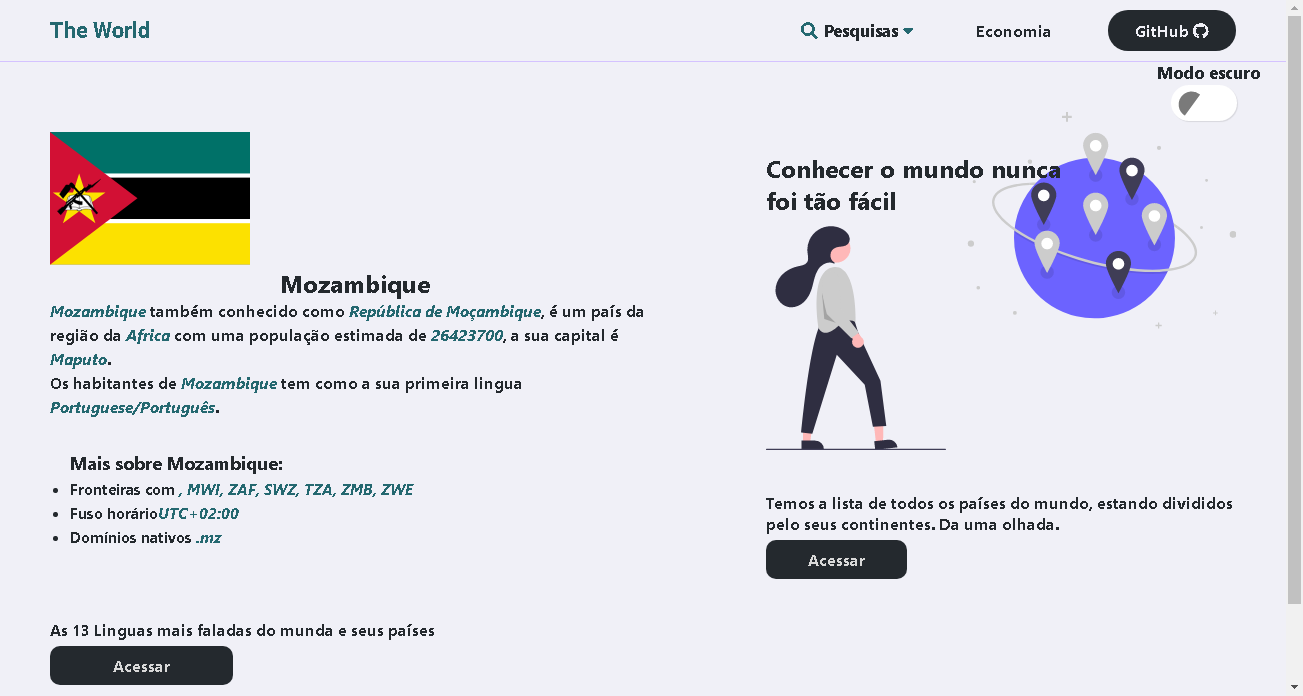
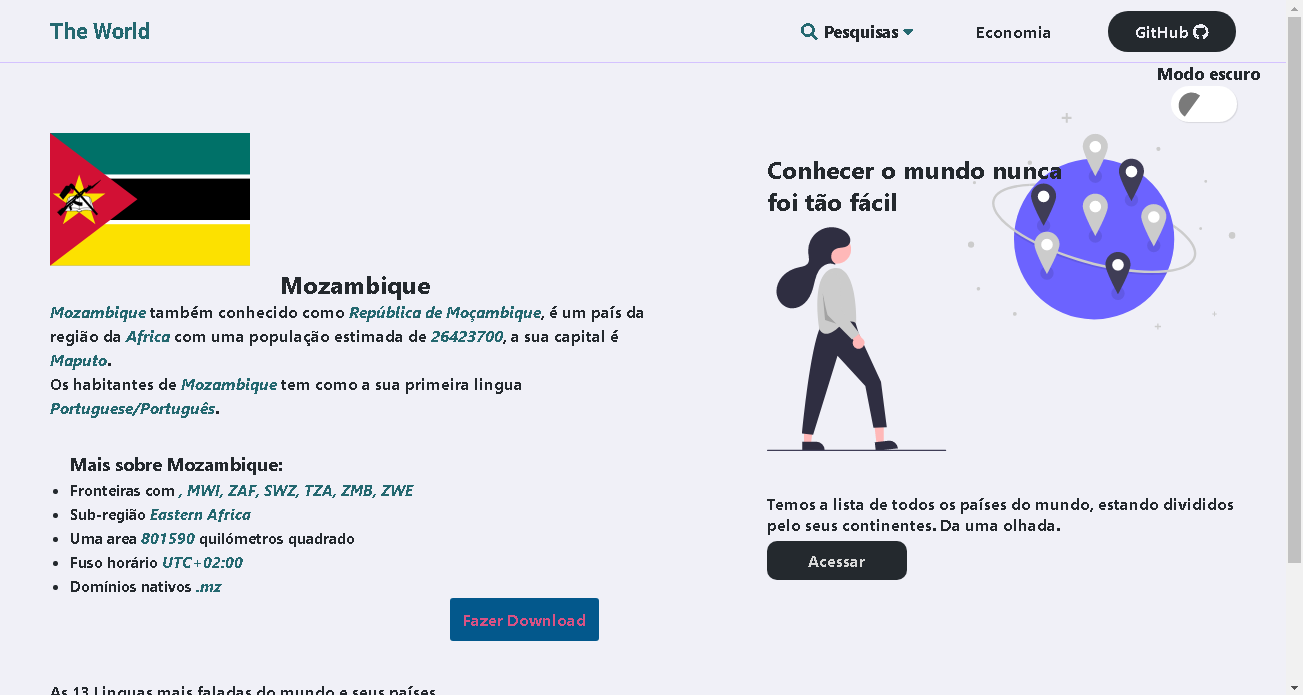
Download CSV

diff --git a/src/components/Countries/index.tsx b/src/components/Countries/index.tsx
@@ -1,5 +1,5 @@
 import React, { useContext} from 'react';
-import { Container, More, Borders, TimeZone, Domain, Description, Flag, Image } from './styles';
+import { Container, More, Borders, TimeZone, Domain, Description, Flag, Image,CSVDownload, Button } from './styles';
 
 import { AuthContext } from '../../contexts';
 import { MainNav } from '../AroundWorld/styles';
@@ -11,12 +11,11 @@ interface Props {
 }
 
 const Countries: React.FC<Props> = ({MainId}) => {
-    const { blackMode } = useContext(AuthContext);
+    const { blackMode, country } = useContext(AuthContext);
     
-    const { name,flag, altSpellings, region, subregion, population, languages, capital, borders, timezones, topLevelDomain, area } = useContext(AuthContext).country;
+    const { name, nativeName, flag, altSpellings, region, subregion, population, languages, capital, borders, timezones, topLevelDomain, area } = country;
     if(!name)
     return <Description isBlackMode={blackMode}>Carregando ...</Description>
-
 
 
     const indexNick = altSpellings.length - 1;
@@ -24,6 +23,37 @@ const Countries: React.FC<Props> = ({MainId}) => {
 
     const indexLanguage = languages.length - 1;
     const language = languages[indexLanguage];
+
+    const csvData = [ 
+        ['Nome', name],
+        ['Nome nativo', nativeName],
+        ['Regiao', region],
+        ['Sub-regiao', subregion],
+        ['Area', area],
+        ['Populacao', population],
+        ['Capital', capital],
+        ['Lingua', language.name],
+        ['Fronteiras', borders.map((border) => border)],
+        ['Fuso horario', timezones.map((timezone) => timezone)],
+        ['Dominios nativos', topLevelDomain.map((domain) => domain)],
+        ['Link para visualizar bandeira', flag],
+    ]
+
+    function csv() {
+        var value = 'Name,Title\n';
+        csvData.forEach(function(row) {
+                value += row.join(' : ');
+                value += "\n";
+        });
+    
+        console.log(value);
+        var hiddenElement = document.createElement('a');
+        hiddenElement.href = 'data:text/csv;charset=utf-8,' + encodeURI(value);
+        hiddenElement.target = '_blank';
+        hiddenElement.download = 'theworld.country.csv';
+        hiddenElement.click();
+    }
+    
 
     return (
         <Container>
@@ -54,6 +84,11 @@ const Countries: React.FC<Props> = ({MainId}) => {
                     <Domain>
                         Domínios nativos {topLevelDomain.map((domain) => <span>{domain}</span>)}
                     </Domain>
+                    <CSVDownload>
+                        <Button onClick={csv}>
+                            Fazer Download
+                        </Button>
+                    </CSVDownload>
                 </More>
                 <MainNav isBlackMode={blackMode}>
                     <span>

diff --git a/src/components/Countries/styles.ts b/src/components/Countries/styles.ts
@@ -46,7 +46,7 @@ export const Description = styled.p<Props>`
     }
 `;
 export const More = styled.ul<Props>`
-    margin-bottom: 7rem;
+    margin-bottom: 4rem;
 
     > h1 {
         font-size: 1.8rem;
@@ -72,6 +72,30 @@ export const Image = styled.img`
         max-width: 10rem;
     }
 `;
+
+export const CSVDownload = styled.div`
+    text-align: right;
+    margin-right: 6rem;
+`;
+
+export const Button = styled.button`
+    color: #D95284;
+    background: #03588C;
+    font-size: 1.6rem;
+    font-weight: bold;
+    border: none;
+    
+    padding: 1.1rem 1.3rem;
+    border-radius: .3rem;
+
+    cursor: pointer;
+
+    &:hover, &:active {
+        opacity: .8;
+    }
+`;
+
+
 export const Borders = styled.li``;
 export const TimeZone = styled.li``;
 export const Domain = styled.li``;

diff --git a/src/components/TheWorld/index.tsx b/src/components/TheWorld/index.tsx
@@ -43,7 +43,7 @@ const TheWorld: React.FC<Props> = ({MainId}) => {
             <Container id="theWorld">
                 <div id={MainId}>
                     <span>
-                        Nesta Pagina você ira poder conhecer todas as regiões do mundo, países, linguas, Cidades assim como suas culturas.
+                        Nesta Pagina você ira poder conhecer todas as regiões do mundo, países, linguas, Cidades e ainda fazer Download das informações no formato CSV.
                     </span>
 
                     <Toggle>

diff --git a/src/contexts/index.tsx b/src/contexts/index.tsx
@@ -20,6 +20,7 @@ interface CountryProps {
         flag: string;
         area: string;
         subregion: string;
+        nativeName: string;
     };
     newCountry(url: string): void;
     blackMode: boolean;
@@ -29,6 +30,7 @@ interface CountryProps {
 const INICIAL_STATE = {
     country: {
       name: '',
+      nativeName: '',
       altSpellings: [],
       region: '',
       population: '',

diff --git a/README.md b/README.md
@@ -1,6 +1,6 @@
 # TheWorld
 
-TheWorld é um cliente REST que nos permite obter e visualizar as informações de propriedades dos países presentes na API (https://restcountries.eu) como nome, capital, região, sub-região, população, área, fuso horário, nome nativo e visualizar a bandeira.
+TheWorld é um cliente REST que nos permite visualizar e fazer o download das informações de propriedades dos países presentes na API (https://restcountries.eu) como nome, capital, região, sub-região, população, área, fuso horário, nome nativo e a bandeira.
 <br /> Podendo fazer a pesquisa usando nome do país, Cidade Capital, Lingua e a Região
 
 <p align="center"><b>Light Mode</b> / <b>Darkt Mode</b></p>
